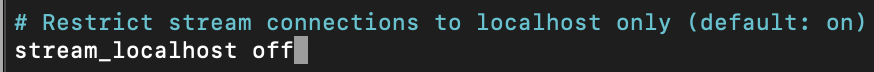
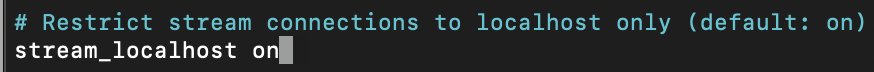
Updated (Finalised V1) Camera Tutorial

Changed region(s): [[0.278, 0.5, 0.3707, 0.8889]]

diff --git a/index.html b/index.html
@@ -515,6 +515,76 @@
                 <p>It's now time to change the configuration file for 'motion'. Enter the following command "sudo nano /etc/motion/motion.conf" into the console.</p>
                 <img class="img-fluid d-block mx-auto" src="img/tutorials/camera/9-Motion-conf.png">
 
+                <br>
+                <h5><strong><u>Step 11.</u></strong></h5>
+                <p>The first thing we have to change in the 'motion.conf' file is the deamon value. In the screenshot below we can see the deamon has been set to off. Change this value to 'on' so it says 'deamon on'. This will allow us to run the motion capture software in the background.</p>
+                <img class="img-fluid d-block mx-auto" src="img/tutorials/camera/10-Change-deamon-to-on.png">
+
+                <br>
+                <h5><strong><u>Step 12.</u></strong></h5>
+                <p>In the following screenshot, we can see the value of "stream_localhost" has been to set to "on". We need to change this value to "off". By changing this value to "off", we can now access the livestream of our camera through the internet. If we didn't change this value, we would only be able to access our camere livestream on our local network i.e. home WiFi.</p>
+                <img class="img-fluid d-block mx-auto" src="img/tutorials/camera/11-Change-stream-restrictions-to-off.png">
+
+                <br>
+                <h5><strong><u>Step 13.</u></strong></h5>
+                <p>In this step, we are upping the maximum framerate of the camera livestream. By default the framerate is set to "1" which can be seen in the screenshot below, this would give us a very choppy video. Change the frame rate to "30".
+                Although, we changed the livestream framrate to 30, it depends on the wifi signal so this may actually be lower on the livestream. Additionally, our camera max framerate is 30, so that's why the config file was set to 30.</p>
+                <img class="img-fluid d-block mx-auto" src="img/tutorials/camera/11.2-Change-stream-maxium-framerate-to-30.png">
+
+                <br>
+                <h5><strong><u>Step 14.</u></strong></h5>
+                <p>This step is important as it sets the location of where our captured motion video clips will be saved. As per the following screenshot, we can see the files are being saved to a folder located at "/var/lib/motion". To make the files easier to find, we are going to change where the video clips are being saved. Change the value "/var/lib/motion" to "/home/pi/Monitor". This will store the video clips in a folder called "Monitor" located at home on the Raspberry Pi.</p>
+                <img class="img-fluid d-block mx-auto" src="img/tutorials/camera/12-Change-to-/home/pi/Monitor.png">
+
+                <br>
+                <h5><strong><u>Step 15.</u></strong></h5>
+                <p>The value of v4l2_palette is currently set to "17". Change this value to "15".</p>
+                <img class="img-fluid d-block mx-auto" src="img/tutorials/camera/13-Change-to-15.png">
+
+                <br>
+                <h5><strong><u>Step 16.</u></strong></h5>
+                <p>In Step 9 we found out the width and height of our camera. In the screenshot below, we can see the current width of the camera is set to "320". Change this value to the width of your camera, in our example, the width is 1024. </p>
+                <img class="img-fluid d-block mx-auto" src="img/tutorials/camera/14-Change-width-1024.png">
+
+                <br>
+                <h5><strong><u>Step 17.</u></strong></h5>
+                <p>This step is similar to Step 16. Change the value of "240" to the height of the camera, in our case, 240. It's important to set the width and height of camera as it will give a bigger and clearer image.</p>
+                <img class="img-fluid d-block mx-auto" src="img/tutorials/camera/15-Change-height-to-768.png">
+
+                <br>
+                <h5><strong><u>Step 18.</u></strong></h5>
+                <p>This step is if you want to capture video seperate from the livestream. The default framerate is set to "2', change to this our cameras framerate which is 30.</p>
+                <img class="img-fluid d-block mx-auto" src="img/tutorials/camera/16-Change-to-100.png">
+
+                <br>
+                <h5><strong><u>Step 19.</u></strong></h5>
+                <p>We nearly have a working livestream of our camera. In step 11, we enabled the motion capture software to run in the background. Now we have to actually give it the permission to run. Enter "sudo nano /etc/default/motion" into the console, as shown in the screenshot below.
+                <img class="img-fluid d-block mx-auto" src="img/tutorials/camera/17-Open-/etc/default/motion.png">
+
+                <br>
+                <h5><strong><u>Step 20.</u></strong></h5>
+                <p>Change the value of "start_motion_deamon" to "yes"</p>
+                <img class="img-fluid d-block mx-auto" src="img/tutorials/camera/18-Change-to-yes.png">
+
+                <br>
+                <h5><strong><u>Step 21.</u></strong></h5>
+                <p>In Step 14, we pointed at where to save the capture video files from the camera. Now we have to create that location. As shown in the screenshot below, enter the command "mkdir /home/pi/Monitor" into console.</p>
+                <img class="img-fluid d-block mx-auto" src="img/tutorials/camera/19-mkdir-/home/pi/Monitor.png">
+
+                <br>
+                <h5><strong><u>Step 22.</u></strong></h5>
+                <p>In this step, we are simply giving 'motion' owenership of our newly created folder "Monitor".</p>
+                <img class="img-fluid d-block mx-auto" src="img/tutorials/camera/20-sudo-chgrp-motion.png">
+
+                <br>
+                <h5><strong><u>Step 23.</u></strong></h5>
+                <p>Now we are giving 'motion' the ability to read and write to the folder 'Monitor'</p>
+                <img class="img-fluid d-block mx-auto" src="img/tutorials/camera/21-chmod-g+rwx-/home/pi/Monitor">
+
+                <br>
+                <h5><strong><u>Step 24.</u></strong></h5>
+                <p>Finally, we can start our livestream. Enter the following command "sudo service motions start" into the console, as shown in the screenshot below.</p>
+                <img class="img-fluid d-block mx-auto" src="img/tutorials/camera/">
 
                 <ul class="list-inline">
                   <li>Category: Movement Detection </li>
